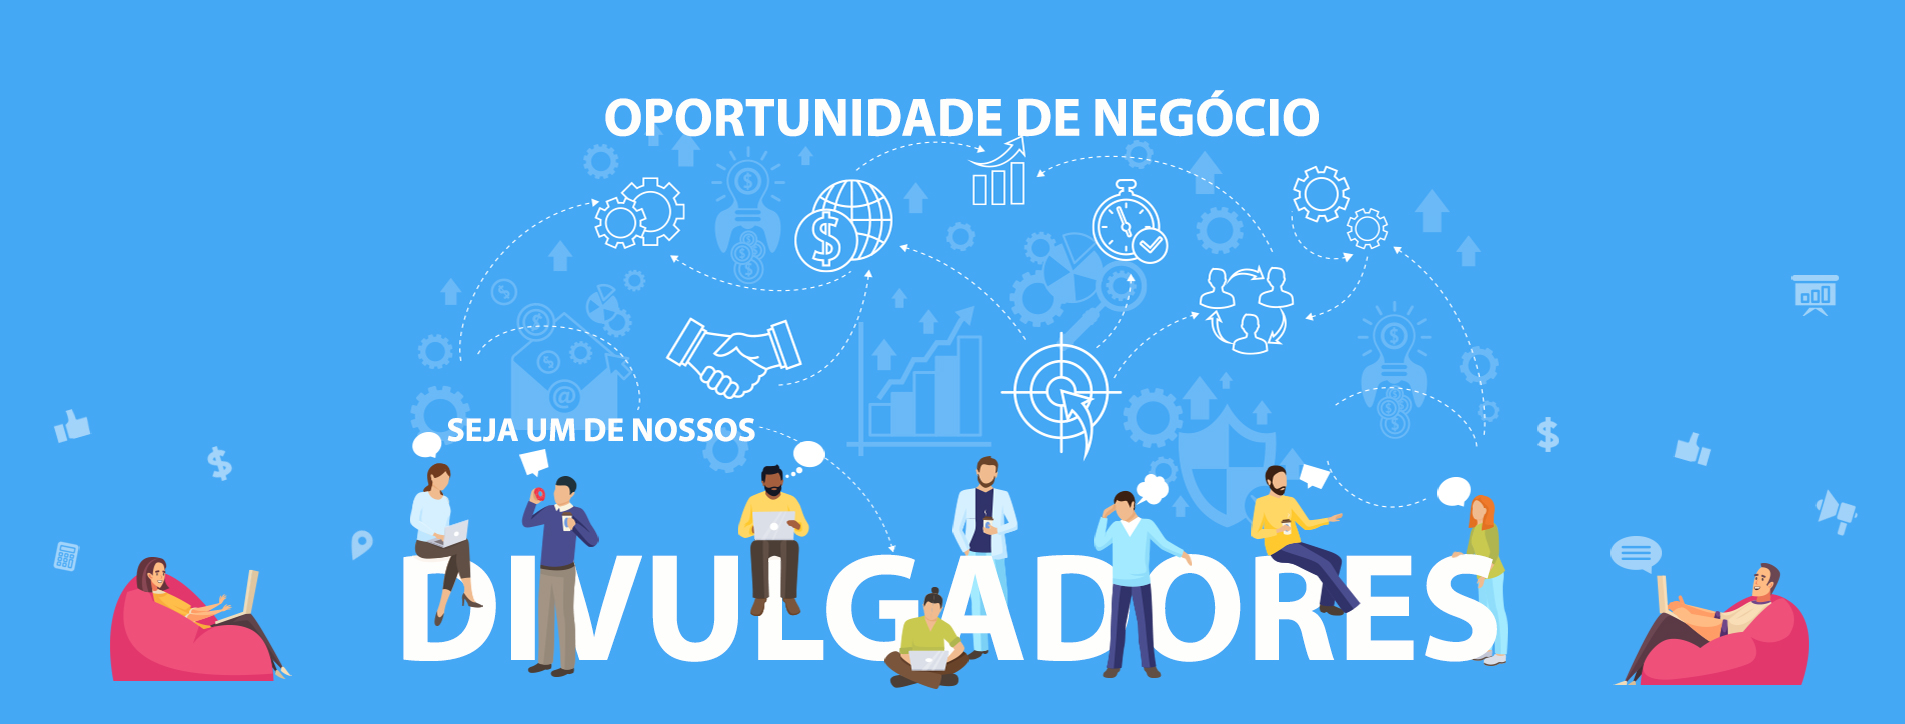
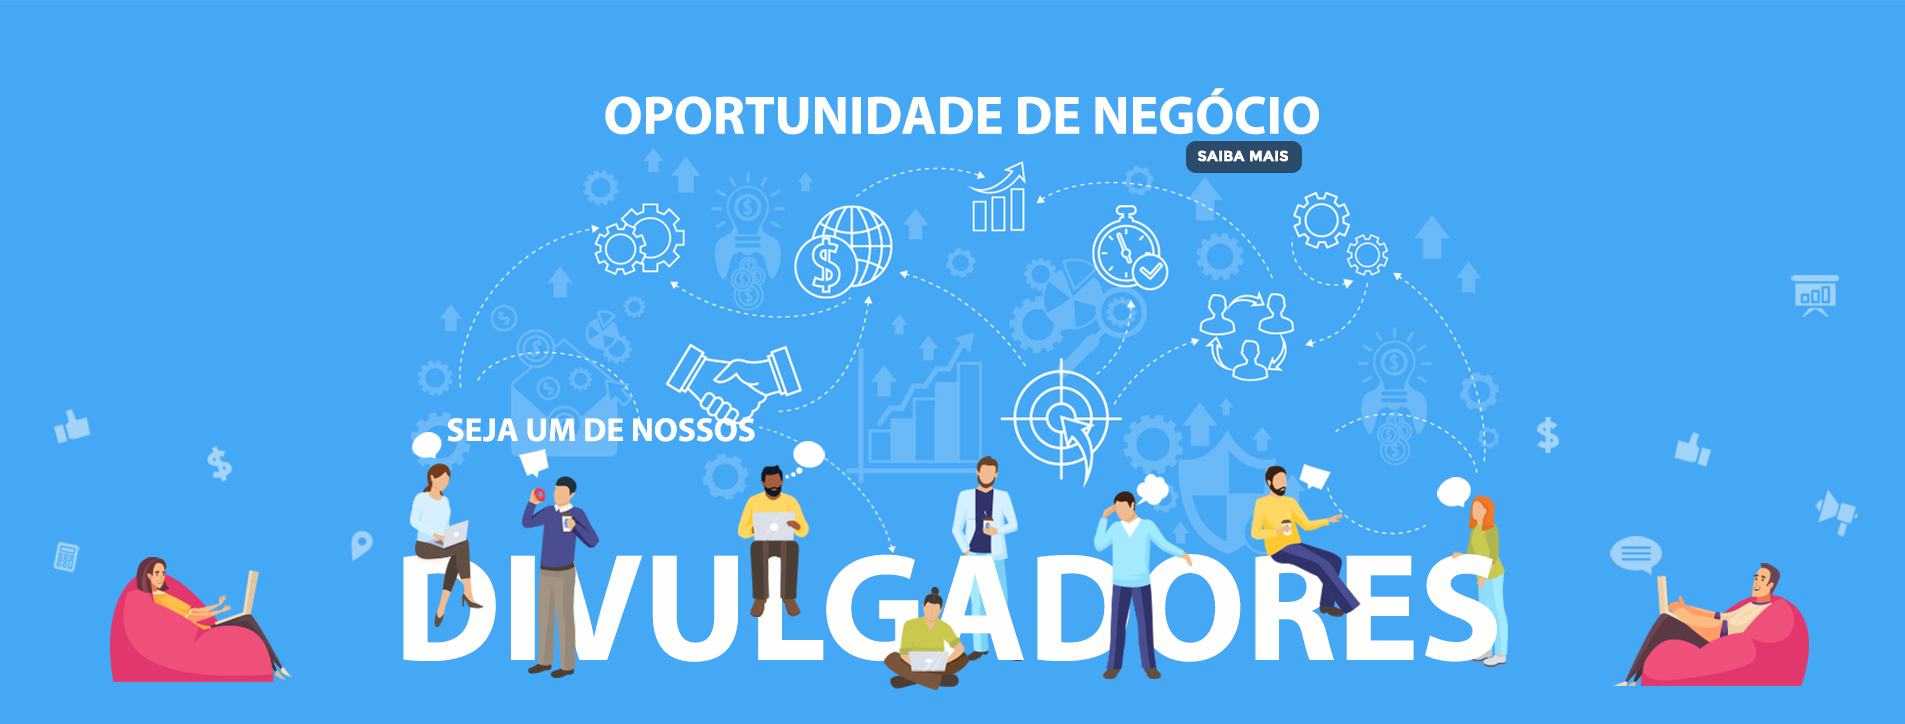
alteração de imagem.

diff --git a/css/divulplace.css b/css/divulplace.css
@@ -282,7 +282,7 @@ header.carousel .fill {
 }
 
 .item-03-info {
-	position: absolute;
+	/*position: absolute;*/
     right: 15%;
 	bottom: 15px;
     left: 15%;
@@ -291,6 +291,11 @@ header.carousel .fill {
     padding-bottom: 20px;
 	text-align: center;
 	color: #000;
+}
+a span.btn-03-oportunidade {
+	display: block;
+	width: 10000px;
+	height: 180px;
 }
 .item-03-brand {
 	display: block;
@@ -310,10 +315,8 @@ header.carousel .fill {
 @media (min-width: 768px) {	
 	.item-03-info {
 		width: 350px;
-		right: 0%;
 		bottom: 50%;
 		left: 55%;
-		color: #fff;
 	}
 	.item-03-brand-i {
 		display: block;

diff --git a/index.html b/index.html
@@ -106,12 +106,16 @@
             <div class="item">
                 <div class="fill carousel-item-03">
 					<div class="item-03-info">
+						<a href="servicos/oportunidade/index.html#thought01">
+							<span class="btn-03-oportunidade"></span>
+						</a>
 						<!-- 
 						<span class="item-03-brand"></span>
 						<p class="item-03-mensagem">
 							Existe um momento na vida de cada pessoa que é possível sonhar ou fazer acontecer
 						</p>
 						 -->
+						 
 					</div>
 				</div>
                 <div class="carousel-caption">
